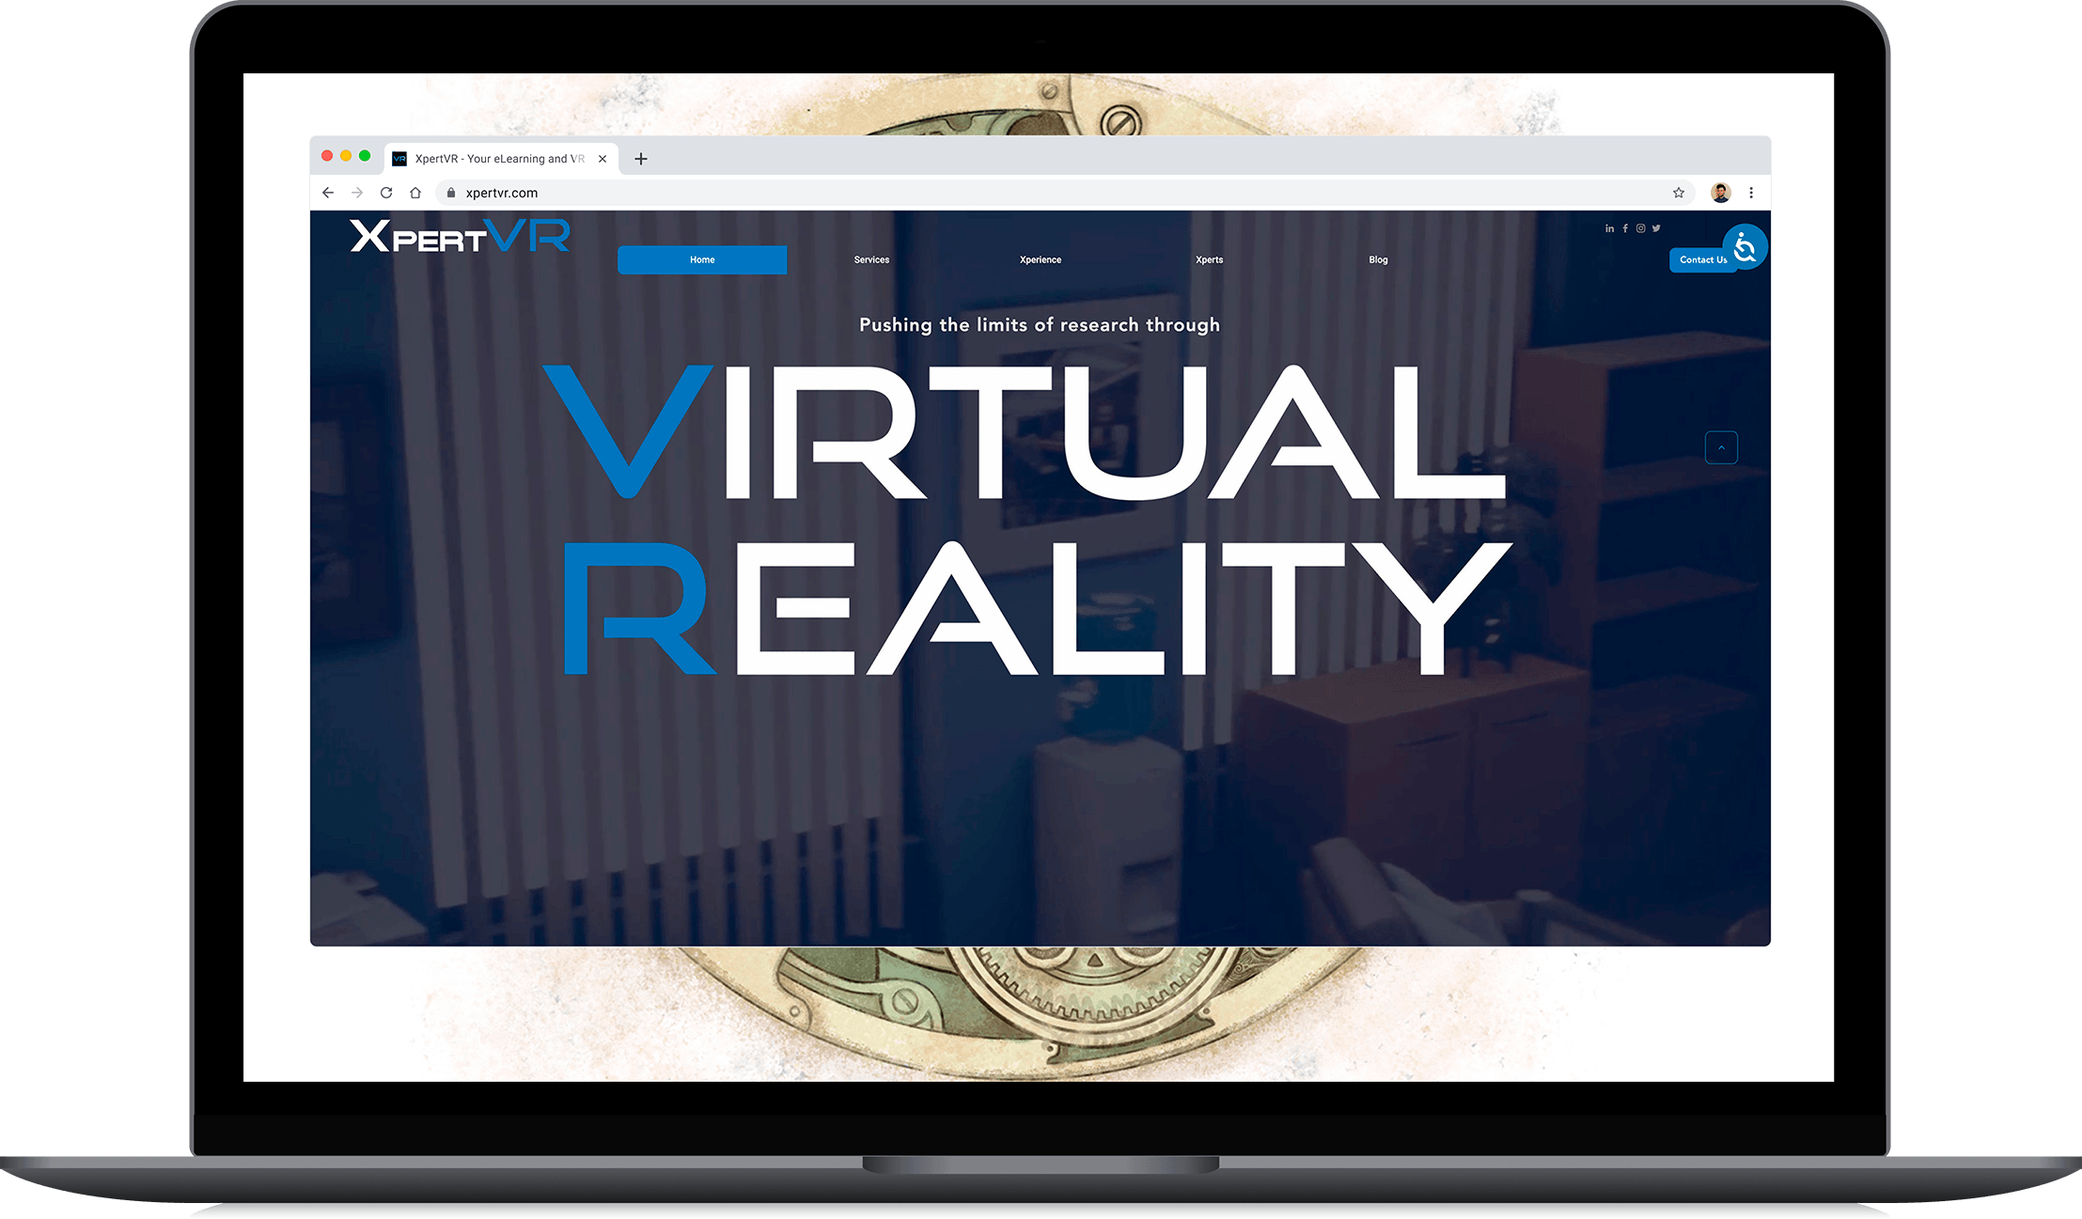
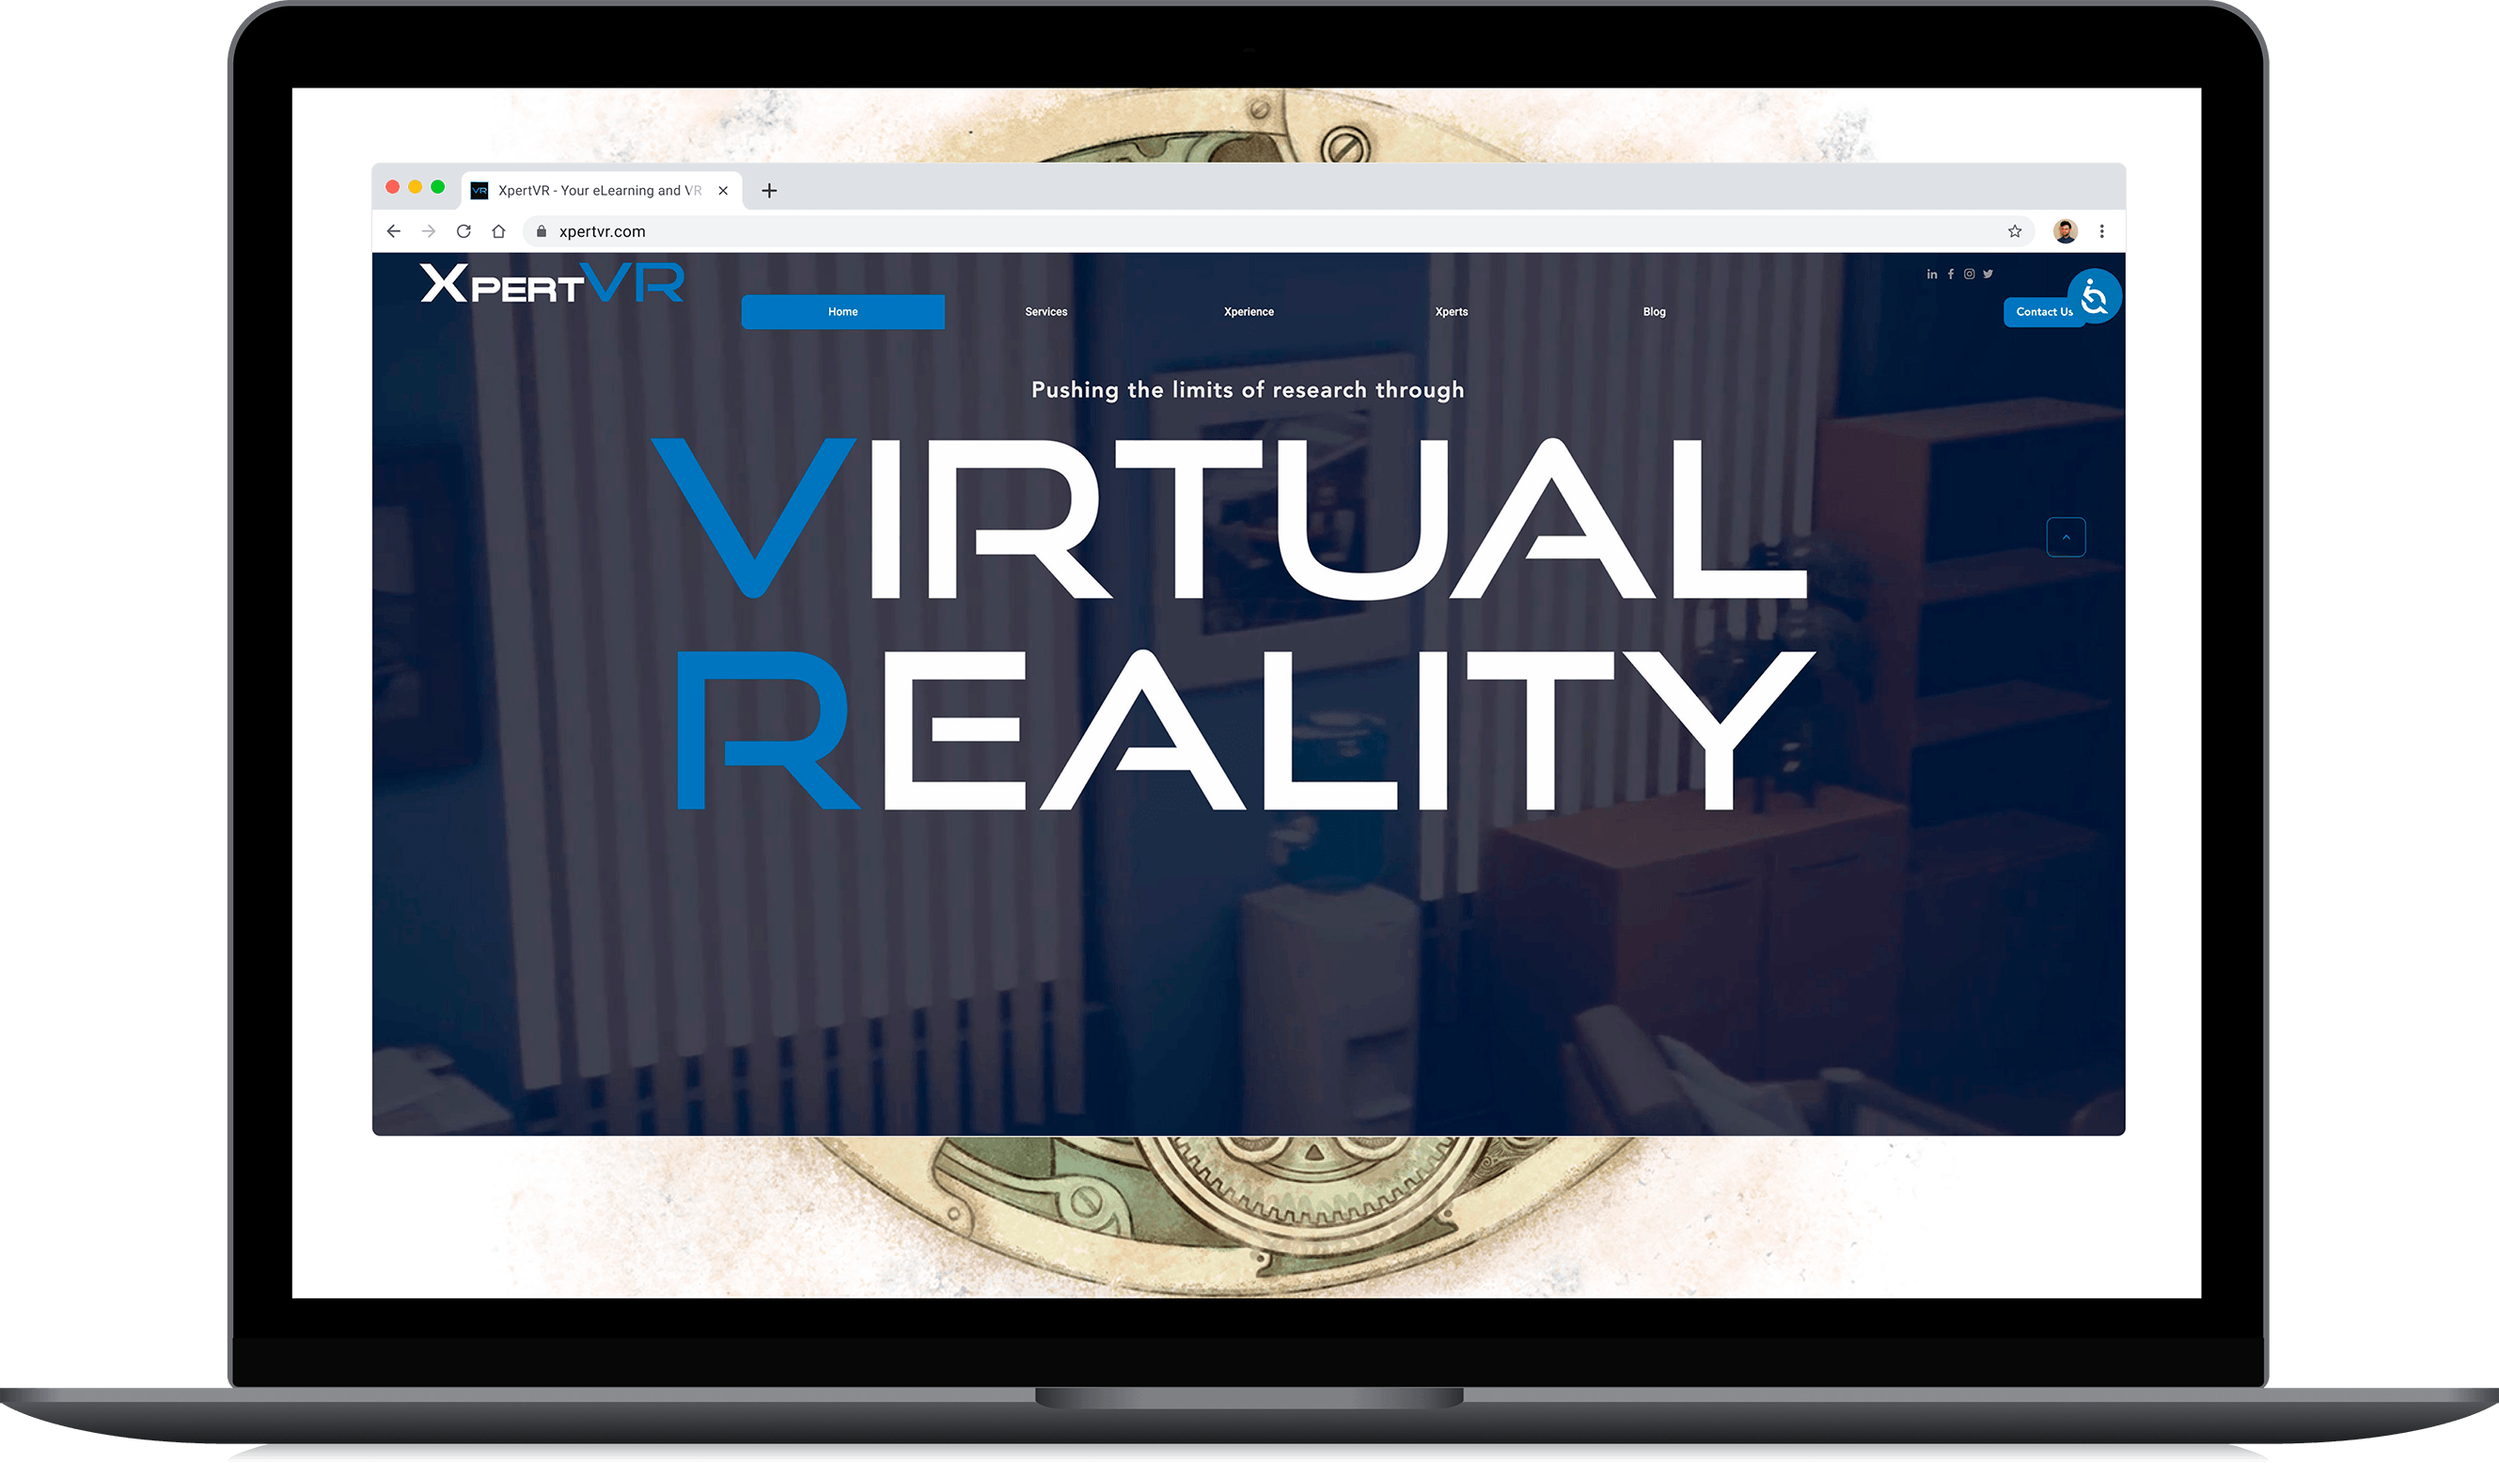
modified xpertvr cover image slider

Changed region(s): [[0.8099, 0.185, 0.8411, 0.2159]]

diff --git a/src/pages/xpertvr.js b/src/pages/xpertvr.js
@@ -7,6 +7,7 @@ import { GridLarge, One, Two, Three } from "../components/grid-large.js"
 import { FlexInfo } from "../components/flex.js"
 import { Image } from "../components/image.js"
 import Title from "../components/title.js"
+import { sliderImage } from "../components/styles/slider-image.module.scss"
 import Blockquote from "../components/blockquote"
 import Next from "../components/next-project"
 import Zoom from 'react-medium-image-zoom'
@@ -23,24 +24,25 @@ const XpertVR = () => {
                 <h2>Subtitle</h2>
             </Title>
 
-            <Grid>
-                <Image>
-                    <ReactCompareSlider
-                        itemOne={<StaticImage
-                            src="../images/xpertvr/xpertvr-home-after-2.png"
-                            alt="The XpertVR homepage after web redesign"
-                            placeholder='blurred'
-                            quality={100}
-                        />}
-                        itemTwo={<StaticImage
-                            src="../images/xpertvr/xpertvr-home-before-2.png"
-                            alt="The XpertVR homepage before web redesign"
-                            placeholder='blurred'
-                            quality={100}
-                        />}
-                    />
-                </Image>
-            </Grid>
+
+            <div className={sliderImage}>
+                <ReactCompareSlider
+                    itemOne={<StaticImage
+                        src="../images/xpertvr/xpertvr-home-after.png"
+                        alt="The XpertVR homepage after web redesign"
+                        placeholder='blurred'
+                        quality={100}
+                    />}
+                    itemTwo={<StaticImage
+                        src="../images/xpertvr/xpertvr-home-before.png"
+                        alt="The XpertVR homepage before web redesign"
+                        placeholder='blurred'
+                        quality={100}
+                    />}
+                />
+                <p>before &#8672;&#8674; after</p>
+            </div>
+
 
             <FlexInfo>
                 <div

diff --git a/src/components/styles/slider-image.module.scss b/src/components/styles/slider-image.module.scss
@@ -1,0 +1,9 @@
+.slider-image {
+    max-width: 1800px;
+    margin: auto;
+
+    p {
+        text-align: center;
+        font-style: italic;
+    }
+}
